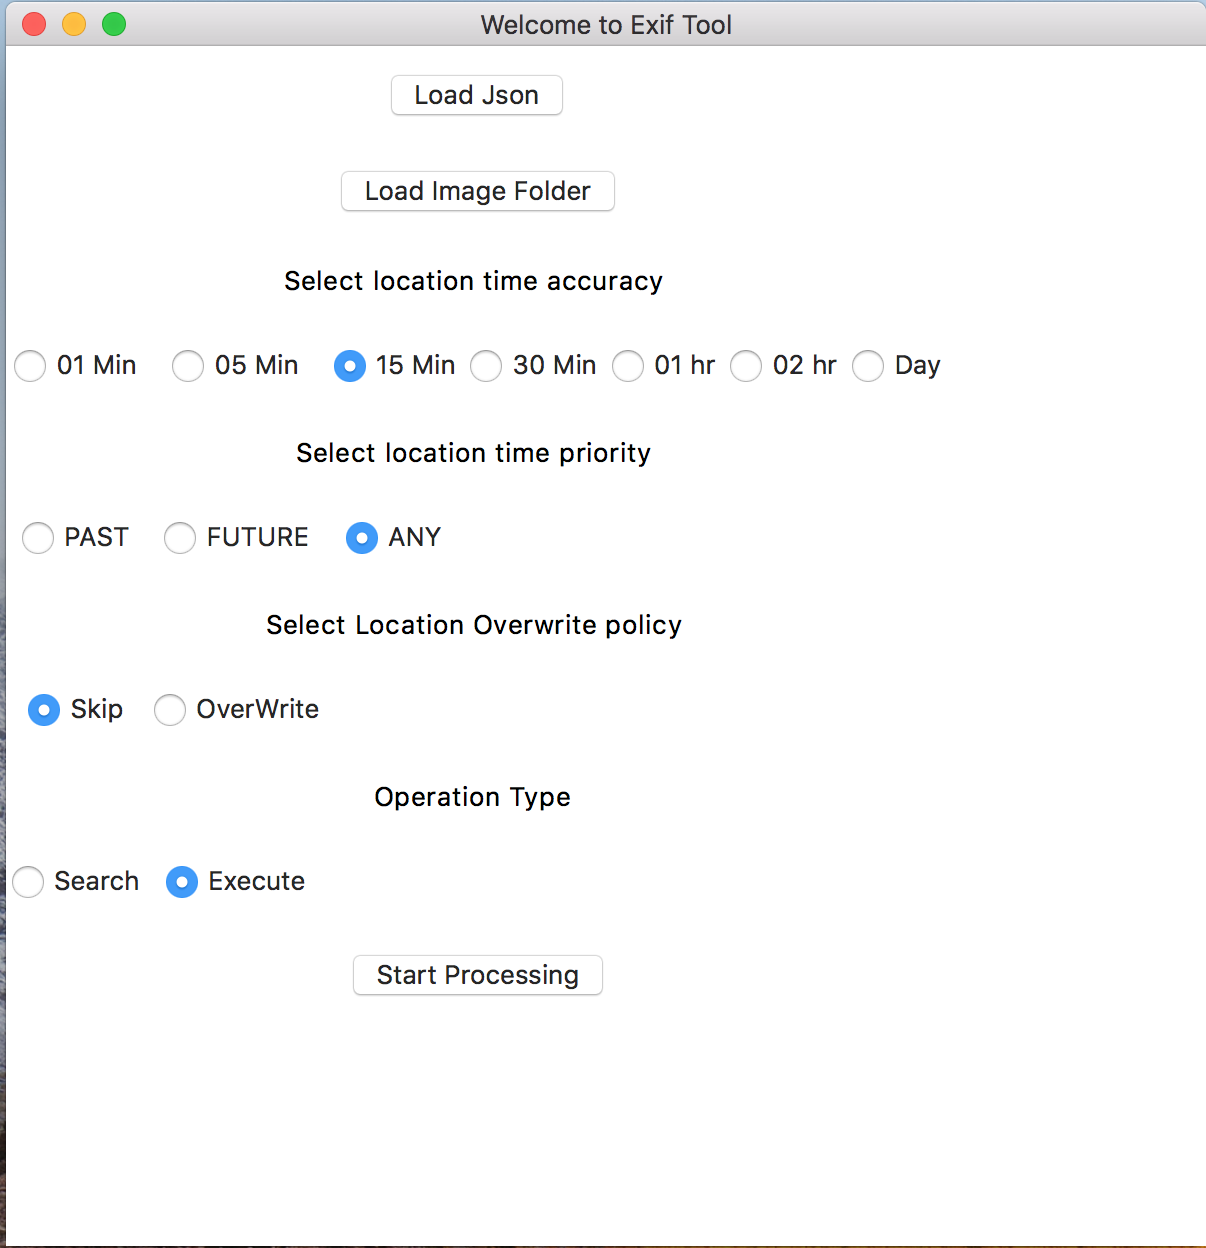
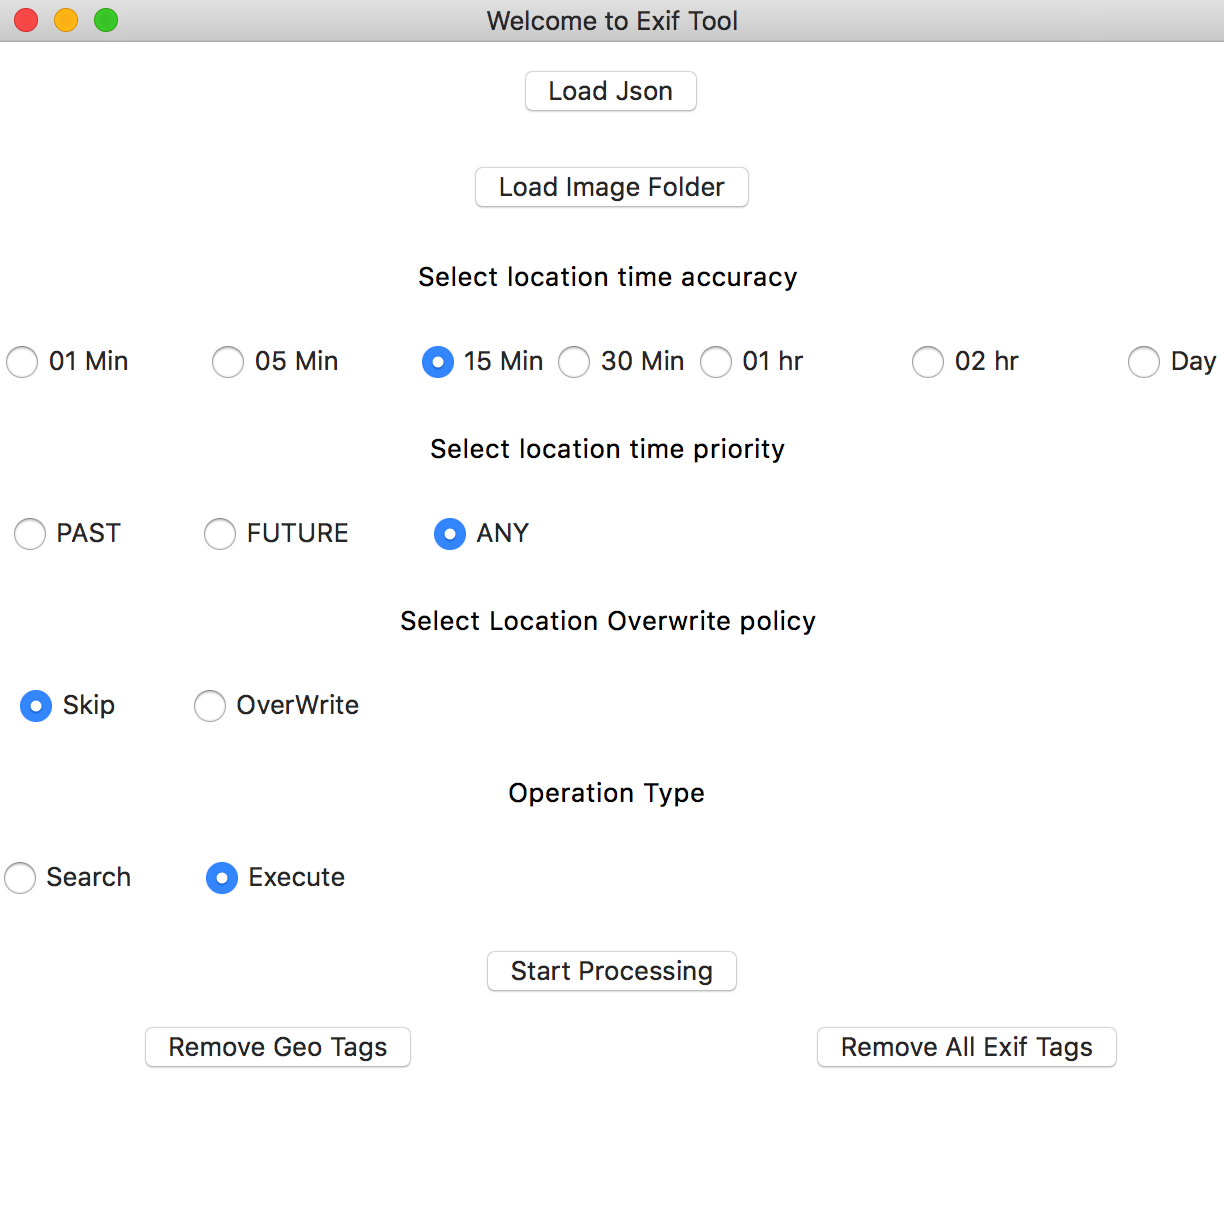
screenshot & exif remove logic changes

diff --git a/gps/exif/gps_exif.py b/gps/exif/gps_exif.py
@@ -34,12 +34,6 @@ class MyFirstGUI():
         self.load_location_file.grid(row=2, columnspan=7, ipady=10)
         # #########################
 
-        self.remove_geo_tags = Button(master, text="Remove Geo Tags", command=self.load_json_file)
-        self.remove_geo_tags.grid(row=3, columnspan=3.5, ipady=10)
-
-        self.remove_all_tags = Button(master, text="Remove All Exif Tags", command=self.load_json_file)
-        self.remove_all_tags.grid(row=3, columnspan=3.5, ipady=10)
-
         #  Step 3
         # Select Location assign parameter : Accuracy
         self.time_accuracy = IntVar()
@@ -90,6 +84,12 @@ class MyFirstGUI():
         self.process = Button(master, text="Start Processing", command=self.process_imges).grid(row=11, columnspan=7, ipady=10)
         # #########################
 
+        self.remove_geo_tags = Button(master, text="Remove Geo Tags", command=self.remove_geo_tag)
+        self.remove_geo_tags.grid(row=12, column=1)
+
+        self.remove_all_tags = Button(master, text="Remove All Exif Tags", command=self.load_json_file)
+        self.remove_all_tags.grid(row=12, column=5)
+
     def is_number(self,s):
         try:
             float(s)
@@ -131,11 +131,20 @@ class MyFirstGUI():
     def remove_geo_tag(self):
         self.check_files()
 
-        def remove(self,filename):
+        def remove(path):
             self.working = True
+            ExifOps.remove_gps_tags(path)
 
+        threading._start_new_thread(remove, (self.op_path,))
 
-        threading._start_new_thread(remove, (self,filename))
+    def remove_all_tags(self):
+        self.check_files()
+
+        def remove(path):
+            self.working = True
+            ExifOps.remove_all_tags(path)
+
+        threading._start_new_thread(remove, (self.op_path,))
 
     def process_imges(self):
         self.check_files()
